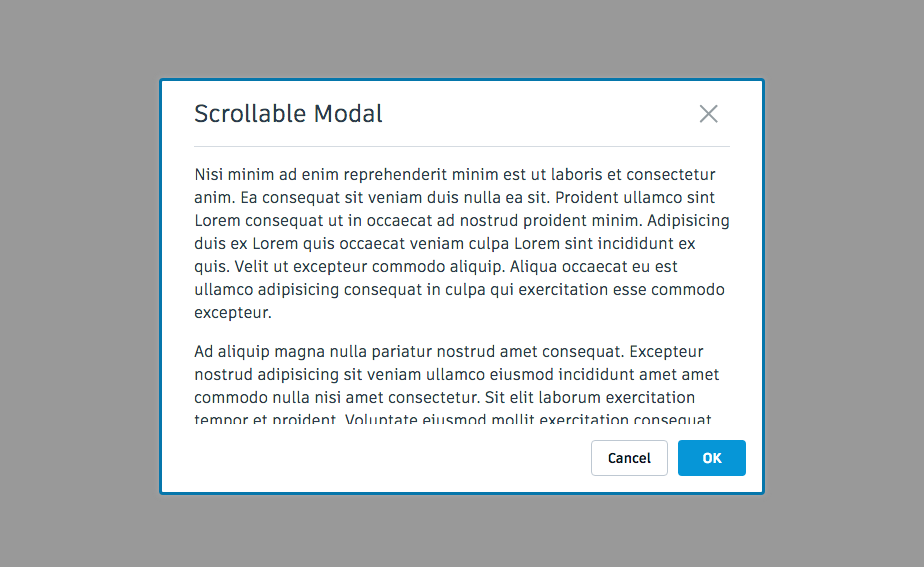
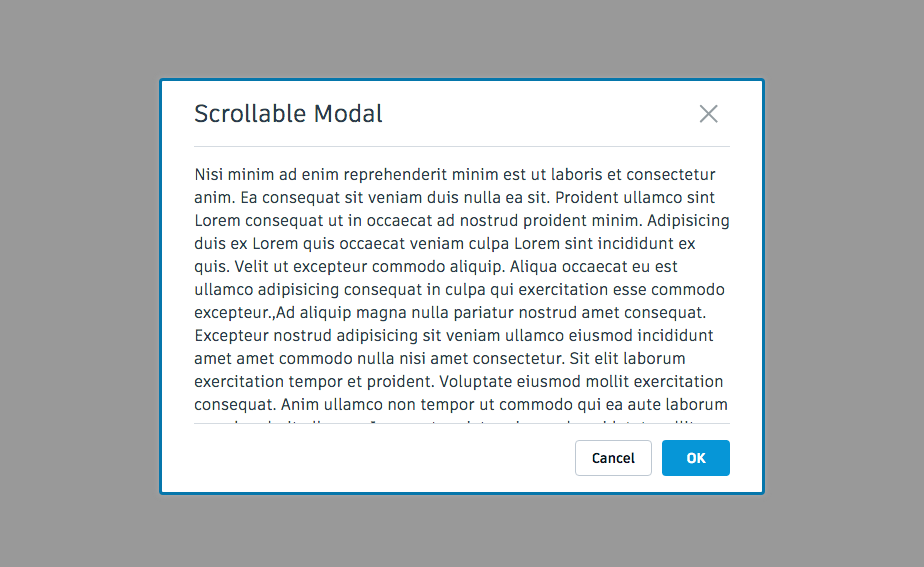
wip

Changed region(s): [[0.2121, 0.5397, 0.7879, 0.7496], [0.6364, 0.7795, 0.8182, 0.8395]]

diff --git a/src/implementations/vanilla/src/components/modal/tests/gemini-modal.html b/src/implementations/vanilla/src/components/modal/tests/gemini-modal.html
@@ -63,6 +63,7 @@
             Modal.setTitle('Non-scrolling Modal');
             Modal.setBody('Nisi minim ad enim reprehenderit minim est ut laboris et consectetur anim. Ea consequat sit veniam duis nulla ea sit. Proident ullamco sint Lorem consequat ut in occaecat ad nostrud proident minim. Adipisicing duis ex Lorem quis occaecat veniam culpa Lorem sint incididunt ex quis. Velit ut excepteur commodo aliquip. Aliqua occaecat eu est ullamco adipisicing consequat in culpa qui exercitation esse commodo excepteur.');
             Modal.setStyle('standard');
+            Modal.open();
 
             if (disposeCloseClick) { disposeCloseClick() };
             disposeCloseClick = Modal.onCloseClick(configureAlternateModal);
@@ -79,6 +80,7 @@
           function configureAlternateModal() {
             Modal.setTitle('Alternate Modal');
             Modal.setStyle('alternate');
+            Modal.open();
 
             disposeCloseClick();
             disposeCloseClick = Modal.onCloseClick(configureLongModal);
@@ -91,11 +93,12 @@
           function configureLongModal() {
             Modal.setTitle('Scrollable Modal');
             Modal.setStyle('standard');
-            Modal.setBody('');
 
             const longModalContent = document.createElement('div');
             longModalContent.innerHTML = paragraphs.map(p => `<p>${p}</p>`).join('');
-            Modal.addSlot(longModalContent);
+            Modal.setBody(paragraphs);
+
+            Modal.open();
 
             disposeCloseClick();
             disposeCloseClick = Modal.onCloseClick(configureScrollingModal);
@@ -108,8 +111,9 @@
           function configureScrollingModal() {
             Modal.setTitle('Scrolling Modal');
             Modal.setStyle('standard');
+            Modal.open();
 
-            Modal.setScrollTop(500);
+            Modal.setScrollTop(200);
 
             disposeCloseClick();
             disposeCloseClick = Modal.onCloseClick(configureShortModal);

diff --git a/src/implementations/vanilla/src/components/modal/modal.js b/src/implementations/vanilla/src/components/modal/modal.js
@@ -100,6 +100,7 @@ class Modal extends Core {
 
   setBody(body) {
     this._findDOMEl('.hig__modal__slot', this.el).textContent = body;
+    this._handleHasScrolling();
   }
 
   setStyle(style) {
